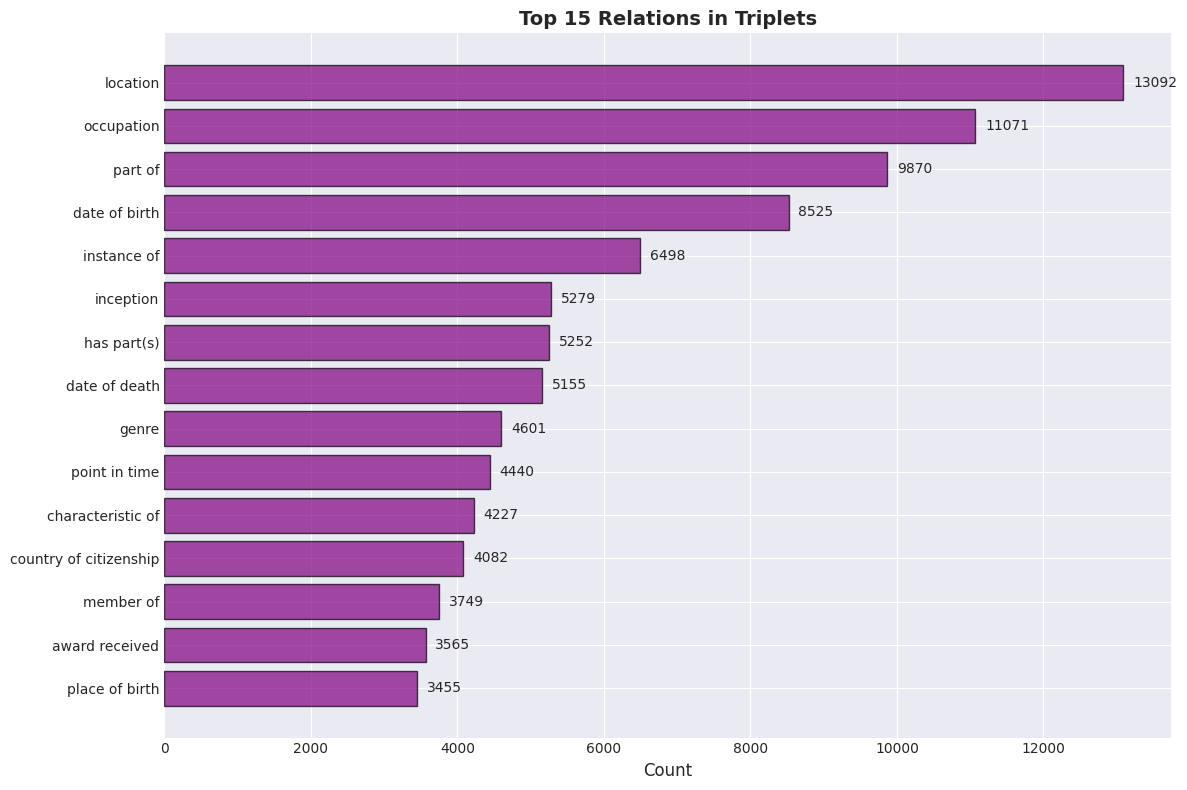
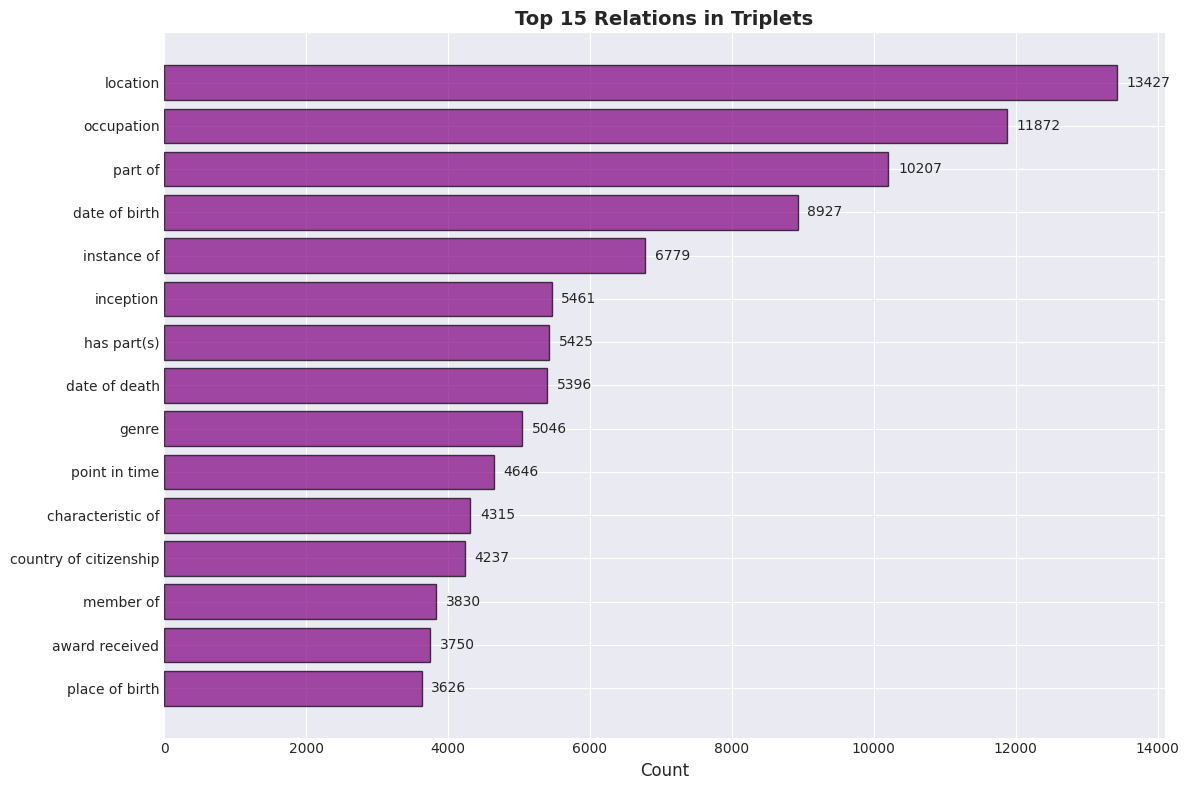
upd multi-hop musique analysis

diff --git a/musique_analysis/README.md b/musique_analysis/README.md
@@ -14,11 +14,11 @@ Multi-hop question-answering dataset generated from musique_gpt4_batch_gpt_oss u
 
 | Metric | Value |
 |--------|-------|
-| Total Records | 143,004 |
-| Records with QA | 143,004 (100.0%) |
-| Unique Entry IDs | 299 |
-| Unique Pages | 4,321 |
-| Total Triplets | 266,480 |
+| Total Records | 148,664 |
+| Records with QA | 148,664 (100.0%) |
+| Unique Entry IDs | 309 |
+| Unique Pages | 4,433 |
+| Total Triplets | 277,026 |
 
 ## Distributions Overview
 
@@ -72,4 +72,4 @@ Multi-hop question-answering dataset generated from musique_gpt4_batch_gpt_oss u
 ```
 
 ---
-*Generated: 2026-03-13 10:51:45*
+*Generated: 2026-03-13 11:26:39*
